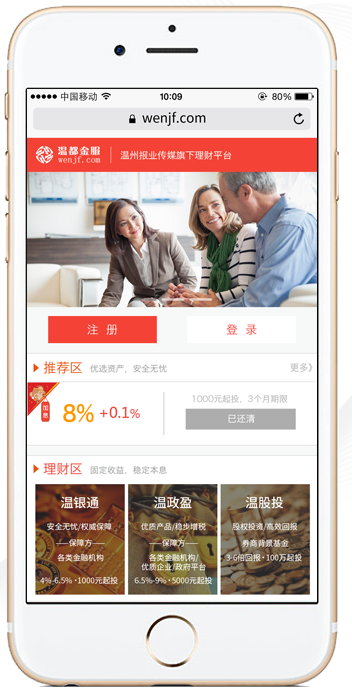
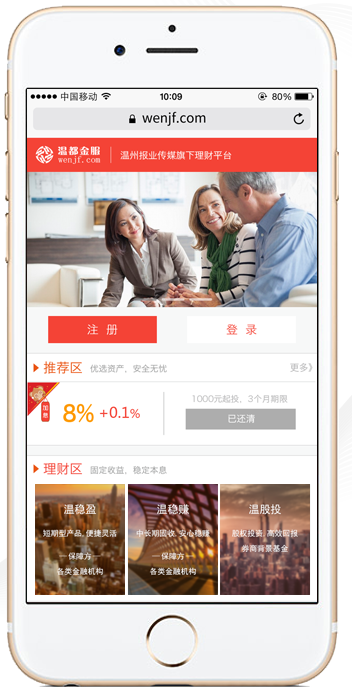
修改pc端首页五大优势文案及样式

Changed region(s): [[0.0938, 0.693, 0.9062, 0.8737]]

diff --git a/frontend/web/css/index.css b/frontend/web/css/index.css
@@ -347,7 +347,7 @@ i,em{
     padding-left: 10%;
     height: 30px;
     line-height: 30px;
-    margin-top: 20px;
+    margin-top: 30px;
 }
 .three-content img{
     float: left;

diff --git a/frontend/views/site/index.php b/frontend/views/site/index.php
@@ -45,27 +45,27 @@ $this->title = '温都金服首页';
         <div class="three-content three-content1">
             <img src="images/one.png" alt="">
             <div class="three-content-title"><span>国资</span>背景</div>
-            <i>温州报业传媒旗下理财平台</i>
+            <i>隶属温州日报报业集团旗下，国资平台，可信赖；</i>
         </div>
         <div class="three-content three-content2">
             <img src="images/two.png" alt="">
             <div class="three-content-title"><span>股东</span>强势</div>
-            <i>温州报业传媒     南京金融资产交易中心</i>
+            <em><p>温州日报报业集团，实力雄厚的现代国有传媒集团；</p><p>南京金融资产交易中心，省级金融主管部门审批的合规平台；</p></em>
         </div>
         <div class="three-content three-content3">
             <img src="images/three.png" alt="">
             <div class="three-content-title">资产<span>优质</span></div>
-            <i>各类金融机构产品、优质企业政信类产品、国有平台挂牌金融资产项目</i>
+            <em><p>资金全程托管，与平台隔离不被挪用；绑定本人银行卡，提现只进本人账户很安全；</p><p>层层风控，安全至上；专业稳健，合法合规；</p></em>
         </div>
         <div class="three-content three-content4">
             <img src="images/four.png" alt="">
             <div class="three-content-title"><span>灵活</span>便捷</div>
-            <i>选择多样，网上有平台，线下有门店服务，千元起步，低门槛高收益，预期年化收益高</i>
+            <em><p>主流金融机构产品、优质政府平台类产品、</p><p>优质供应链金融产品，期限多样，收益可观；</p></em>
         </div>
         <div class="three-content three-content5">
             <img src="images/five.png" alt="">
             <div class="three-content-title">资金<span>安全</span></div>
-            <em><p>联动优势全程资金托管，用户资金与平台隔离</p><p>资金交易仅限本人操作，资金出入安全有保障</p></em>
+            <em><p>网上有平台，线下有门店，温都金服在您身边，</p><p>千元起投，手机操作，随时随地实现财富增值。</p></em>
         </div>
         <div class="three-hang">
             <img src="images/gongsi.png" alt="">
